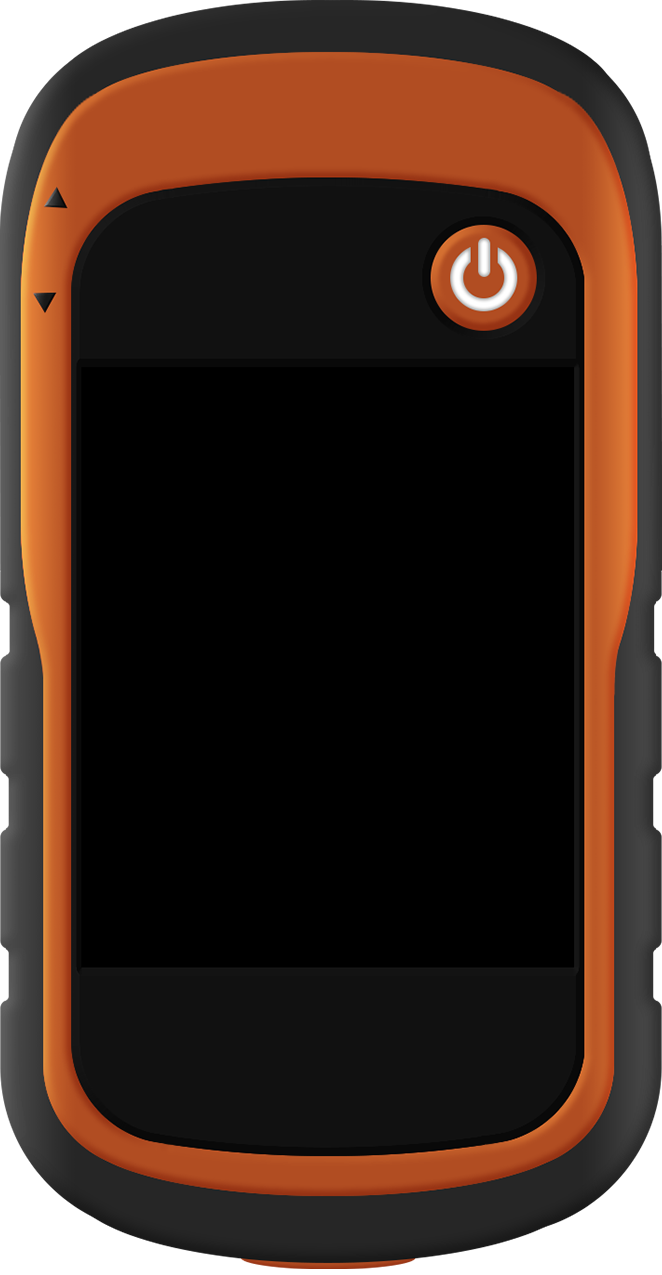
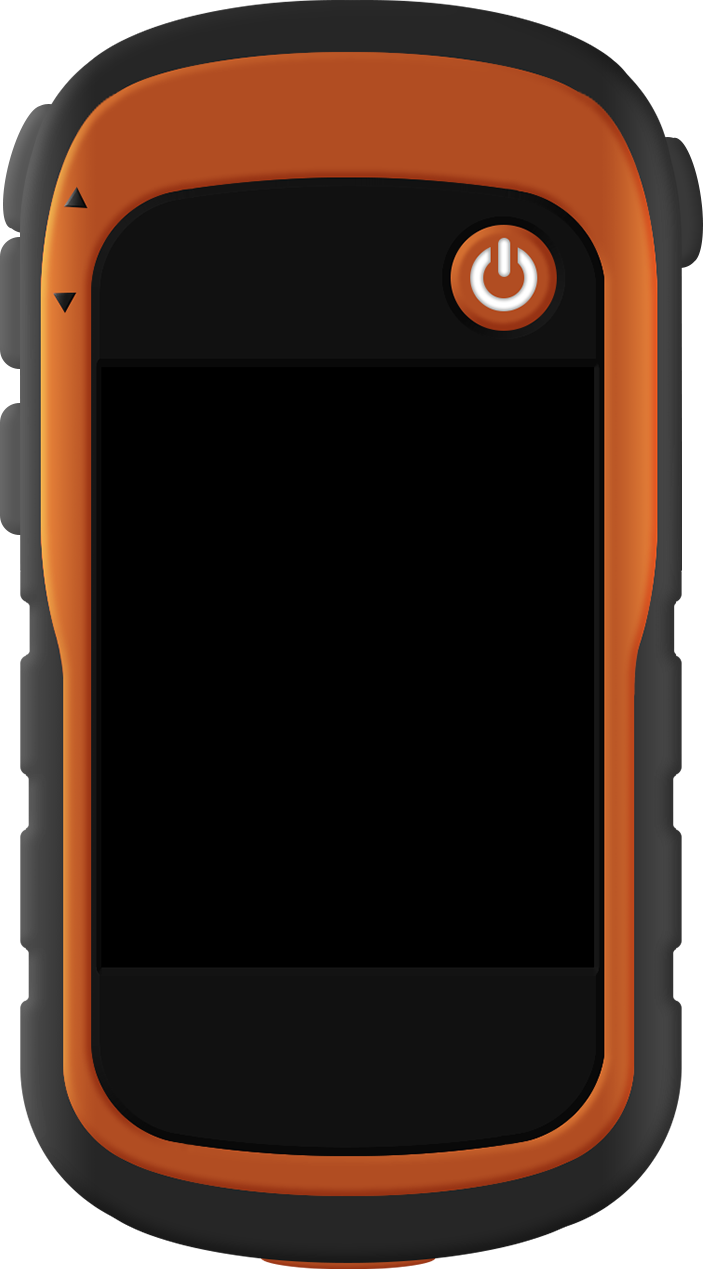
Implemented On-screen buttons, removed system frame.

diff --git a/xtrex/src/main/java/teamk/xtrex/XTrexFrame.java b/xtrex/src/main/java/teamk/xtrex/XTrexFrame.java
@@ -2,6 +2,9 @@ package teamk.xtrex;
 
 import java.awt.*;
 import java.awt.image.BufferedImage;
+import java.awt.event.ActionEvent;
+import java.awt.event.ActionListener;
+
 import java.io.File;
 import java.io.IOException;
 import java.nio.MappedByteBuffer;
@@ -9,12 +12,19 @@ import java.nio.MappedByteBuffer;
 import javax.imageio.ImageIO;
 import javax.swing.*;
 
-public class XTrexFrame extends JLayeredPane {
+/**
+ * @author Laurence Jones
+ * @version Sprint 3.0
+ */
+
+
+public class XTrexFrame extends JLayeredPane implements ActionListener {
 
     private static final long serialVersionUID = 913883001958811801L;
     
 	private Screen currentScreen;
     private JLabel label = new JLabel();
+    private JPanel buttonOverlayPane;
     private JPanel paletteOverlayPane;
     private JPanel mapScreenOverlayPane;
     private JPanel popupOverlayPane;
@@ -24,6 +34,24 @@ public class XTrexFrame extends JLayeredPane {
     private StatusPane status;
     GridBagConstraints constraints = new GridBagConstraints();
     private JPanel statusContainer;
+    private final int buttonSize = 80;
+
+    private final Dimension powerBtnPos = new Dimension(0,0);
+
+    private class SystemButton extends JButton{
+        public SystemButton(){
+            setPreferredSize(new Dimension(buttonSize, buttonSize));
+            setOpaque(false);
+            setContentAreaFilled(false);
+            setBorderPainted(false);
+        }
+    }
+
+    private SystemButton powerBtn;
+    private SystemButton menuBtn;
+    private SystemButton minusBtn;
+    private SystemButton plusBtn;
+    private SystemButton selectBtn;
 
     private NotificationPopup notification = new NotificationPopup("Alert: GPS Connection Lost");
 
@@ -55,7 +83,7 @@ public class XTrexFrame extends JLayeredPane {
         try{
             BufferedImage img = ImageIO.read(new File("img/bg.png"));
 
-            label.setIcon(new ImageIcon(new ImageIcon(img).getImage().getScaledInstance(460, 886, Image.SCALE_SMOOTH)));
+            label.setIcon(new ImageIcon(new ImageIcon(img).getImage().getScaledInstance(Style.DEVICE_SIZE.width, Style.DEVICE_SIZE.height, Image.SCALE_SMOOTH)));
             label.setSize(Style.DEVICE_SIZE);
             add(label, JLayeredPane.DEFAULT_LAYER);
             label.setOpaque(false);
@@ -66,6 +94,42 @@ public class XTrexFrame extends JLayeredPane {
         } catch (IOException e) {
             e.printStackTrace();
         }
+
+        if (Style.undecorated) {
+            this.setOpaque(true);
+            setBackground(new Color(0,0,0,1));
+        }
+
+        buttonOverlayPane = new JPanel();
+        buttonOverlayPane.setSize(Style.DEVICE_SIZE);
+        buttonOverlayPane.setLayout(null);
+        buttonOverlayPane.setOpaque(false);
+
+        powerBtn = new SystemButton();
+        menuBtn = new SystemButton();
+        minusBtn = new SystemButton();
+        plusBtn = new SystemButton();
+        selectBtn = new SystemButton();
+
+        powerBtn.addActionListener(this);
+        menuBtn.addActionListener(this);
+        minusBtn.addActionListener(this);
+        plusBtn.addActionListener(this);
+        selectBtn.addActionListener(this);
+
+        powerBtn.setBounds(312,150,buttonSize, buttonSize);
+        menuBtn.setBounds(422,100,buttonSize-10, buttonSize+5);
+        minusBtn.setBounds(0,170,buttonSize-10, buttonSize+5);
+        plusBtn.setBounds(6,75,buttonSize-10, buttonSize+3);
+        selectBtn.setBounds(0,285,buttonSize-10, buttonSize+5);
+
+        buttonOverlayPane.add(powerBtn);
+        buttonOverlayPane.add(menuBtn);
+        buttonOverlayPane.add(minusBtn);
+        buttonOverlayPane.add(plusBtn);
+        buttonOverlayPane.add(selectBtn);
+
+        add(buttonOverlayPane, JLayeredPane.MODAL_LAYER);
 
         statusContainer = new JPanel(new BorderLayout());
         statusContainer.setOpaque(false);
@@ -141,5 +205,22 @@ public class XTrexFrame extends JLayeredPane {
         this.revalidate();
         this.repaint();
     }
+
+    public void actionPerformed(ActionEvent e) {
+		Screen currentScreen = XTrexDisplay.getInstance().getCurrentScreen();
+
+		SystemButton sourceBtn = (SystemButton) e.getSource();
+		if (sourceBtn.equals(powerBtn)) {
+			currentScreen.onPowerButtonPressed();
+		} else if (sourceBtn.equals(menuBtn)) {
+			currentScreen.onMenuButtonPressed();
+		} else if (sourceBtn.equals(minusBtn)) {
+			currentScreen.onMinusButtonPressed();
+		} else if (sourceBtn.equals(plusBtn)) {
+			currentScreen.onPlusButtonPressed();
+		} else if (sourceBtn.equals(selectBtn)) {
+			currentScreen.onSelectButtonPressed();
+		}
+	}
 
 }

diff --git a/xtrex/src/main/java/teamk/xtrex/AboutView.java b/xtrex/src/main/java/teamk/xtrex/AboutView.java
@@ -1,8 +1,6 @@
 package teamk.xtrex;
 
 import java.awt.*;
-import java.awt.GridBagLayout;
-import java.awt.GridBagConstraints;
 import java.awt.image.BufferedImage;
 import java.io.File;
 import java.io.IOException;
@@ -13,7 +11,6 @@ import javax.swing.*;
  * Selects the version of Ublox 7 appropriate for the Clients OS
  * Parses GPS input to variables and output log.
  * 
- * @author Laurance Jones
  * @author Connor Harris
  * @version Sprint 2 
  */
@@ -22,40 +19,57 @@ public class AboutView extends Screen{
 
     private static final long serialVersionUID = -6580960841880839449L;
     
-	private JLabel logoImg = new JLabel();
-    private GridBagConstraints constraints = new GridBagConstraints();
-    private PrefabButton version = new PrefabButton("Xtrex Sprint 2");
-    private PrefabButton compName = new PrefabButton("Team K");
+	// private JLabel logoImg = new JLabel();
+    // private GridBagConstraints constraints = new GridBagConstraints();
+    // private PrefabButton version = new PrefabButton("Xtrex Sprint 2");
+    // private PrefabButton compName = new PrefabButton("Team K");
+
+    // private AboutView(){
+    //     setLayout(new GridBagLayout());
+    //     try{
+    //         BufferedImage img = ImageIO.read(new File("img/exlogo.png"));
+    //         logoImg.setIcon(new ImageIcon(new ImageIcon(img).getImage().getScaledInstance(200, 200, Image.SCALE_SMOOTH)));
+    //         constraints.ipady = 10;
+    //         constraints.gridx = 0;
+    //         constraints.gridy = 0;
+    //         add(logoImg, constraints);
+    //         logoImg.setOpaque(false);
+    //         constraints.gridy = 1;
+    //         constraints.fill = GridBagConstraints.HORIZONTAL;
+    //         add(version,constraints);
+    //         constraints.gridy = 2;
+    //         add(compName,constraints);
+    //         //label.setLayout(new OverlayLayout(label));
+    //         //label.setAlignmentX(0.5f);
+            
+    //     } catch (IOException e) {
+    //         e.printStackTrace();
+    //     }
+
+
+    // }
+    // /**
+	//  * Return the single instance of AboutView held by this class
+    //  * in a thread safe manner.
+	//  * @return the single instance of AboutView
+    //  */
+
+    private JLabel content;
 
     private AboutView(){
-        setLayout(new GridBagLayout());
-        try{
-            BufferedImage img = ImageIO.read(new File("img/exlogo.png"));
-            logoImg.setIcon(new ImageIcon(new ImageIcon(img).getImage().getScaledInstance(200, 200, Image.SCALE_SMOOTH)));
-            constraints.ipady = 10;
-            constraints.gridx = 0;
-            constraints.gridy = 0;
-            add(logoImg, constraints);
-            logoImg.setOpaque(false);
-            constraints.gridy = 1;
-            constraints.fill = GridBagConstraints.HORIZONTAL;
-            add(version,constraints);
-            constraints.gridy = 2;
-            add(compName,constraints);
-            //label.setLayout(new OverlayLayout(label));
-            //label.setAlignmentX(0.5f);
-            
+
+        setLayout(new BorderLayout());
+        content = new JLabel();
+        try {
+            content.setIcon(new ImageIcon(new ImageIcon(ImageIO.read(new File("img/about.png"))).getImage().getScaledInstance(Style.SCREEN_SIZE.width, Style.SCREEN_SIZE.height, Image.SCALE_SMOOTH)));
         } catch (IOException e) {
             e.printStackTrace();
         }
-
-
+        content.setPreferredSize(Style.SCREEN_SIZE);
+        add(content, BorderLayout.CENTER);
+        
     }
-    /**
-	 * Return the single instance of AboutView held by this class
-     * in a thread safe manner.
-	 * @return the single instance of AboutView
-	 */
+    
     private static class Loader {
         static final AboutView instance = new AboutView();
     }

diff --git a/xtrex/src/main/java/teamk/xtrex/XTrexDisplay.java b/xtrex/src/main/java/teamk/xtrex/XTrexDisplay.java
@@ -1,12 +1,11 @@
 package teamk.xtrex;
 
 import java.awt.BorderLayout;
-import java.awt.event.ActionEvent;
-import java.awt.event.ActionListener;
+import java.awt.Color;
+import java.awt.Dimension;
+import java.awt.Toolkit;
 
-import javax.swing.JButton;
 import javax.swing.JFrame;
-import javax.swing.JToolBar;
 import javax.swing.UIManager;
 import javax.swing.UnsupportedLookAndFeelException;
 
@@ -15,24 +14,23 @@ import javax.swing.UnsupportedLookAndFeelException;
  * 
  * @author Daniel Gulliver
  */
-public class XTrexDisplay extends JFrame implements ActionListener {
+public class XTrexDisplay extends JFrame {
 
 	private static final long serialVersionUID = -2837748826675931508L;
 	private static XTrexDisplay display = null;
 	private XTrexFrame contentFrame = new XTrexFrame();
-
-	// Device buttons
-	JButton powerBtn = new JButton("On/Off");
-	JButton menuBtn = new JButton("Menu");
-	JButton minusBtn = new JButton("-");
-	JButton plusBtn = new JButton("+");
-	JButton selectBtn = new JButton("Select");
-
-	JToolBar xTrekButtons = new JToolBar("XTrex Buttons");
 	
 	private XTrexDisplay() {
-		//this.setUndecorated(true);
-		//this.setBackground(new Color(1,1,1,0));
+		
+		if (Style.undecorated) {
+			this.setUndecorated(true);
+			Dimension dim = Toolkit.getDefaultToolkit().getScreenSize();
+			this.setBackground(new Color(0,0,0,1));
+			this.setLocation(((dim.width-(Style.DEVICE_SIZE.width))/2), ((dim.height-(Style.DEVICE_SIZE.height))/2));
+			//this.setLocation(200,200);
+		}
+
+
 		this.setTitle("XTrex");
 		this.setResizable(false);
 		this.setDefaultCloseOperation(JFrame.EXIT_ON_CLOSE);
@@ -50,21 +48,8 @@ public class XTrexDisplay extends JFrame implements ActionListener {
 		} catch (UnsupportedLookAndFeelException e) {
 			e.printStackTrace();
 		}
-		
-		powerBtn.addActionListener(this);
-		menuBtn.addActionListener(this);
-		minusBtn.addActionListener(this);
-		plusBtn.addActionListener(this);
-		selectBtn.addActionListener(this);
-		
-		xTrekButtons.add(powerBtn);
-		xTrekButtons.add(menuBtn);
-		xTrekButtons.add(minusBtn);
-		xTrekButtons.add(plusBtn);
-		xTrekButtons.add(selectBtn);
 	
 		this.add(contentFrame, BorderLayout.CENTER);
-		this.add(xTrekButtons, BorderLayout.PAGE_START);
 		this.pack();
 		this.setVisible(true);
 	}
@@ -108,25 +93,6 @@ public class XTrexDisplay extends JFrame implements ActionListener {
 
 	public XTrexFrame getXTrexFrame(){
 		return contentFrame;
-	}
-
-	public void actionPerformed(ActionEvent e) {
-		Screen currentScreen = XTrexDisplay.getInstance().getCurrentScreen();
-
-		JButton sourceBtn = (JButton) e.getSource();
-		if (sourceBtn.equals(powerBtn)) {
-			currentScreen.onPowerButtonPressed();
-		} else if (sourceBtn.equals(menuBtn)) {
-			currentScreen.onMenuButtonPressed();
-		} else if (sourceBtn.equals(minusBtn)) {
-			currentScreen.onMinusButtonPressed();
-		} else if (sourceBtn.equals(plusBtn)) {
-			currentScreen.onPlusButtonPressed();
-		} else if (sourceBtn.equals(selectBtn)) {
-			currentScreen.onSelectButtonPressed();
-		}
-	}
-
-	
+	}	
 
 }

diff --git a/xtrex/src/main/java/teamk/xtrex/Style.java b/xtrex/src/main/java/teamk/xtrex/Style.java
@@ -6,9 +6,12 @@ import java.awt.Font;
 
 public class Style {
 
+    public static boolean undecorated = true;
+
     public static final int FONT_SIZE = 20;
     public static final Font uiFont = new Font("Arial", Font.PLAIN, FONT_SIZE);
-    public static final Dimension DEVICE_SIZE = new Dimension(460,886);
+    //public static final Dimension DEVICE_SIZE = new Dimension(460,886);
+    public static final Dimension DEVICE_SIZE = new Dimension(491,886);
     public static final int SCREEN_WIDTH = 342;
     public static final Dimension SCREEN_SIZE = new Dimension(SCREEN_WIDTH, 418);
 
